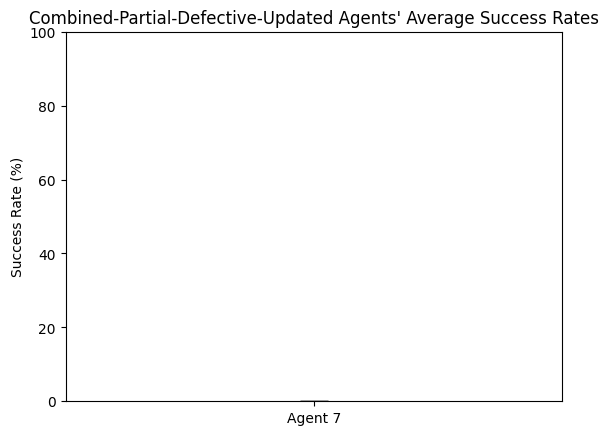
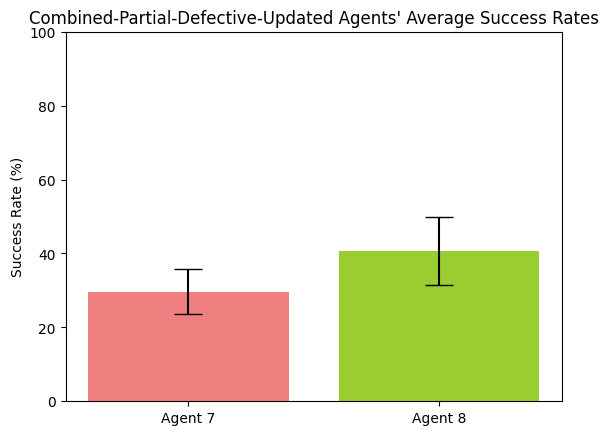
wip: 7c, 8c

diff --git a/game/agents/agent8c.py b/game/agents/agent8c.py
@@ -2,10 +2,10 @@ import random
 from copy import deepcopy
 from game.predatored import PredatorED
 from game.prey import Prey
-from .agent1 import Agent1
+from .agent2 import Agent2
 
 
-class Agent7C(Agent1):
+class Agent8C(Agent2):
     def __init__(self, location, graph, predator):
         # initialize the location of the agent here
         super().__init__(location)
@@ -30,7 +30,7 @@ class Agent7C(Agent1):
         surveys the node with the highest probability of containing the predator if not certain of predator location; otherwise, surveys the nod with the highest probability of containing the prey 
         updates the beliefs
         assume the predator and prey are at one of the locations with the highest probability, chosen randomly
-        move according to the rules of agent1 
+        move according to a modified version of agent2 that accounts for uncertainity 
         """
         prey_signal, pred_signal, surveyed_node = self.survey_node(
             graph, prey, predator)
@@ -52,7 +52,37 @@ class Agent7C(Agent1):
             self.get_highest_prob_prey_nodes()))
         potential_pred = PredatorED(random.choice(
             self.get_highest_prob_pred_nodes()))
-        super().move(graph, potential_prey, potential_pred)
+
+        # MODIFICATION OF A2 CORE LOGIC TO ACCOUNT FOR UNCERTAINTY
+        distances = {}
+        for nbr in graph.nbrs[self.location]:
+            distances[nbr] = self.bfs(graph, nbr, potential_pred.location)
+        max_dist = max(distances.values())
+
+        action = 0
+        for key, val in distances.items():
+            if val == max_dist:
+                action = key
+
+        # WE ARE MORE CERTAIN ABOUT PREDATOR LOCATION
+        if len(self.prev_preys) == 0:
+            self.location = action
+        # WE KEEP RUNNING AWAY MAXIMALLY FROM PREDATOR UNTIL WE KNOW WHERE PREY IS
+        else:
+            distances = {}
+            for nbr in graph.nbrs[self.location]:
+                distances[nbr] = self.bfs(graph, nbr, potential_prey.location)
+            min_dist = min(distances.values())
+
+            for key, val in distances.items():
+                if val == min_dist:
+                    action = key
+
+            potential_predator_distance = self.bfs(
+                graph, self.location, potential_pred.location)
+
+            if potential_predator_distance > 3 or self.pred_beliefs[action] <= 0.3 or self.prey_beliefs[action] >= 0.3:
+                self.location = action
         return len(self.prev_preys), len(self.prev_preds)
 
     def move_debug(self, graph, prey, predator):
@@ -237,11 +267,10 @@ class Agent7C(Agent1):
 
     def pred_update_beliefs(self, graph):
         """
-        accounts for the movement of the easily distracted predator 
-        (60% chance moves optimally towards pred, 40% chance moves to neighbor)
+        updates beliefs working under the assumption that the predator will always move optimally
+        therefore, predator is guaranteed to be in any one of its neighbors of shortest distance with equal probability
         """
-        def get_counts_hashmap_neighbor_frontier():
-            """FIND ALL THE COUNTS TO EACH NEIGHBOR IN THE POSSIBLE FRONTIER"""
+        def get_countshashmap_neighbor_frontier():
             counts = dict()
             for node in self.pred_frontier:
                 counts[node] = counts.get(node, 0) + 1
@@ -250,7 +279,6 @@ class Agent7C(Agent1):
             return counts
 
         def get_possible_optimal_solutions(counts):
-            """FIND OUT ALL POSSIBLE OPTIMAL SOLUTIONS THAT CAN BE TAKEN"""
             pruned = {}
             for state in self.pred_frontier:
                 d = {}
@@ -266,35 +294,17 @@ class Agent7C(Agent1):
                         pruned[key] = counts[key]
             return pruned
 
-        # print(f"FRONTIER: {self.frontier}")
+        # print(self.pred_frontier)
+        counts = get_countshashmap_neighbor_frontier()
+        # print(counts)
+        pruned = get_possible_optimal_solutions(counts)
+        # print(pruned)
+        self.pred_frontier = set(pruned.keys())
+        # print(self.pred_frontier)
 
-        optimal_counts = get_counts_hashmap_neighbor_frontier()
-
-        # 60% PROBABILITY IT MOVES OPTIMALLY
-        optimal_pruned = get_possible_optimal_solutions(optimal_counts)
-        for key, value in optimal_pruned.items():
-            optimal_pruned[key] = value * 0.6
-        # print(f"OPTIMAL COUNTS: {optimal_counts}")
-        # print(f"OPTIMAL PRUNED: {optimal_pruned}")
-
-        # 40% PROBABILITY IT MOVES RANDOMLY
-        random_pruned = {}
-        for key, value in optimal_counts.items():
-            random_pruned[key] = value * 0.4
-        # print(f"40% RANDOM PRUNED: {random_pruned}")
-
-        # COMBINE PROBABILITIES OF PREDATOR LOCATIONS
-        pruned = deepcopy(optimal_pruned)
-        for key, value in random_pruned.items():
-            pruned[key] = pruned.get(key, 0) + value
-        # print(f"PRUNED: {pruned}")
-
-        self.frontier = set(pruned.keys())
-
-        # WE COMPUTE THE PROBABILITIES BASED ON FREQUENCY
         probability_mass = deepcopy(pruned)
+        # print(probability_mass)
         denominator = sum(probability_mass.values())
-        # print(f"PROB MASS: {probability_mass}")
 
         for key in self.pred_beliefs.keys():
             if key not in probability_mass:

diff --git a/main.py b/main.py
@@ -344,9 +344,9 @@ def labreport_simulation_statistics_agent7C():
     found_prey = []
     found_pred = []
 
-    for _ in range(1):
+    for _ in range(30):
         simulation_wins, simulation_losses, simulation_timeouts, simulation_success, simulation_found_prey, simulation_found_pred = simulation_statistics.agent7C(
-            1, 50)
+            100, 50)
 
         wins.append(simulation_wins)
         losses.append(simulation_losses)
@@ -362,6 +362,37 @@ def labreport_simulation_statistics_agent7C():
 
     print(
         f"Agent7C: Overall Success Rate: {round(sum(success_rates) / len(success_rates),2)}%")
+
+
+def labreport_simulation_statistics_agent8C():
+    """
+    runs 100 simulations 30 times and returns the average 
+    """
+    wins = []
+    losses = []
+    timeouts = []
+    success_rates = []
+    found_prey = []
+    found_pred = []
+
+    for _ in range(30):
+        simulation_wins, simulation_losses, simulation_timeouts, simulation_success, simulation_found_prey, simulation_found_pred = simulation_statistics.agent8C(
+            100, 50)
+
+        wins.append(simulation_wins)
+        losses.append(simulation_losses)
+        timeouts.append(simulation_timeouts)
+        success_rates.append(simulation_success)
+        found_prey.append(simulation_found_prey)
+        found_pred.append(simulation_found_pred)
+
+    agent_data = get_overall_simulation_statistics(
+        wins, losses, timeouts, success_rates, found_prey=found_prey, found_pred=found_pred)
+    save_simulation_statistics(
+        "combined-partial-defective-updated", "agent8", agent_data)
+
+    print(
+        f"Agent8C: Overall Success Rate: {round(sum(success_rates) / len(success_rates),2)}%")
 
 
 if __name__ == "__main__":
@@ -390,6 +421,7 @@ if __name__ == "__main__":
     simulation_statistics.visualize(
         "data/", "simulation_statistics_combined-partial-defective.json")
 
-    # labreport_simulation_statistics_agent7C()
-    # simulation_statistics.visualize(
-    #     "data/", "simulation_statistics_combined-partial-defective-updated.json")
+    labreport_simulation_statistics_agent7C()
+    labreport_simulation_statistics_agent8C()
+    simulation_statistics.visualize(
+        "data/", "simulation_statistics_combined-partial-defective-updated.json")

diff --git a/game/game.py b/game/game.py
@@ -12,6 +12,7 @@ from game.agents.agent8 import Agent8
 from game.agents.agent7b import Agent7B
 from game.agents.agent8b import Agent8B
 from game.agents.agent7c import Agent7C
+from game.agents.agent8c import Agent8C
 from .graph import Graph
 from .predator import Predator
 from .predatored import PredatorED
@@ -543,6 +544,49 @@ class Game:
     def run_agent_7C_debug(self):
         self.predator = PredatorED(self.predator_location)
         self.agent = Agent7C(self.agent_starting_location,
+                             self.graph, self.predator)
+
+        status = 0
+        step_count = 0
+        found_pred = 0
+
+        self.visualize_graph()
+
+        while status == 0 and step_count < self.timeout:
+            status, found_prey, found_pred = self.step_debug()
+            step_count = step_count + 1
+            self.visualize_graph()
+
+        self.visualize_graph_video()
+
+        # agent timed out
+        if status == 0:
+            status = -2
+
+        return status, found_prey, found_pred
+
+    def run_agent_8C(self):
+        self.predator = PredatorED(self.predator_location)
+        self.agent = Agent8C(self.agent_starting_location,
+                             self.graph, self.predator)
+
+        status = 0
+        step_count = 0
+        found_pred = 0
+
+        while status == 0 and step_count < self.timeout:
+            status, found_prey, found_pred = self.step()
+            step_count = step_count + 1
+
+        # agent timed out
+        if status == 0:
+            status = -2
+
+        return status, found_prey, found_pred
+
+    def run_agent_8C_debug(self):
+        self.predator = PredatorED(self.predator_location)
+        self.agent = Agent8C(self.agent_starting_location,
                              self.graph, self.predator)
 
         status = 0

diff --git a/simulation_statistics.py b/simulation_statistics.py
@@ -325,6 +325,38 @@ def agent7C(num_simulations, nodes=50):
     return wins, losses, timeouts, round(success*100, 2), found_prey/num_simulations, found_pred/num_simulations
 
 
+def agent8C(num_simulations, nodes=50):
+    """
+    run simulation n times and get statistics on success
+    """
+    agent_success = []
+    timeouts = 0
+    found_prey = 0
+    found_pred = 0
+    for _ in range(num_simulations):
+        game = Game(nodes)
+        game_success, game_found_prey, game_found_pred = game.run_agent_8C()
+
+        # agent caught the prey = 1, predator caught the agent/timeout = 0
+        agent_success.append(1 if game_success == 1 else 0)
+
+        # timeout if game_success returns -2
+        timeouts = timeouts + 1 if game_success == -2 else timeouts
+
+        # stores how often the agent knew where the prey was
+        found_pred = found_pred + game_found_pred
+
+        # stores how often the agent knew where the prey was
+        found_prey = found_prey + game_found_prey
+
+    wins = sum(agent_success)
+    losses = len(agent_success) - wins - timeouts
+    success = wins/(len(agent_success))
+    print(
+        f"Agent8C: Wins: {wins}\tLosses: {losses}\tTimeouts: {timeouts}\tSuccess Rate: {round(success*100,2)}%")
+    return wins, losses, timeouts, round(success*100, 2), found_prey/num_simulations, found_pred/num_simulations
+
+
 def visualize(dirname, filename):
     """
     plot the simulation success rates and error bars
